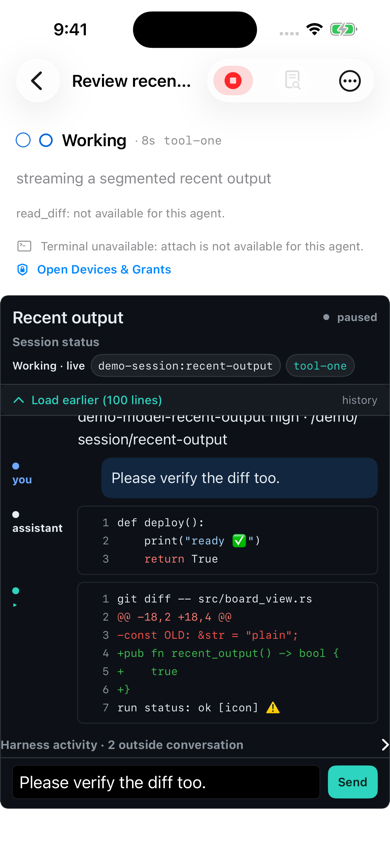
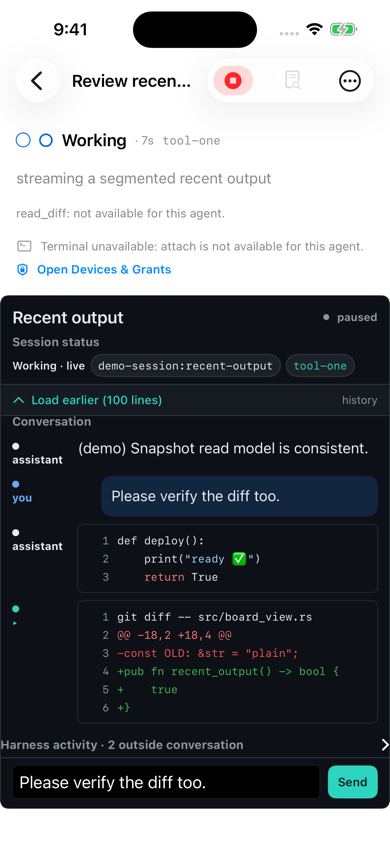
board+ios(#316): R4 omit unavailable worktree metadata; complete iOS evidence
- DemoFleet: remove the manufactured `model effort · path` metadata line
  from the demo seed entirely (every seeded agent has worktreePath == nil,
  so Model/Effort/Worktree are genuinely unavailable and are now omitted;
  the Tool chip falls back to the agent's structured tool field). Delete
  the model/effort/worktree derivation helpers and their path-like
  fallback (`/demo/session/recent-output`), which never parsed as metadata
  and rendered as clipped visible prose in the R3 capture.
- Compact the demo tool diff so the full conversation (Conversation
  heading + user bubble + assistant code + expanded diff with +/-/@@)
  fits the 320pt conversation viewport at the deterministic bottom-scroll
  position; the complete Conversation heading is now visible in-frame
  and nothing is clipped under Load earlier.
- Tests: rename testDemoRecentLines...MetadataIsPerAgent to
  ...MetadataIsOmitted and assert extraction yields empty metadata, no
  "·" separator anywhere, and the flattening contract still holds.
- Re-capture v3-context-split-ios-390x844.png from the compiled Debug app
  (-corralDemoDetail): deterministic Vision OCR shows Session status above
  the complete Conversation heading, unclipped user bubble, assistant code
  block, expanded tool diff, Harness activity · 2 outside conversation,
  composer — zero forbidden identifiers, zero metadata-line prose.
- Re-pin ios/check-release-demo.py release source digest for the R4 seed;
  self-test PASS.
[…]

diff --git a/ios/FleetNotifier/Demo/DemoFleet.swift b/ios/FleetNotifier/Demo/DemoFleet.swift
@@ -256,47 +256,20 @@ enum DemoFleet {
         }
     }
 
-    /// The demo's metadata is derived from the source tool and agent identity,
-    /// rather than copied from one shared sample. That makes each seeded agent
-    /// useful for testing badges and keeps the capture route representative.
-    /// (R3 evidence contract: derived model names stay provider-neutral.)
-    static func model(for agent: Agent) -> String {
-        let slug = agent.agentId.split(separator: ":", maxSplits: 1).last
-            .map(String.init)
-            ?? "demo"
-        let normalized = slug.replacingOccurrences(of: "_", with: "-")
-        return "demo-model-\(normalized)"
-    }
-
-    static func worktree(for agent: Agent) -> String {
-        if let worktree = agent.workspace.worktreePath, !worktree.isEmpty {
-            return worktree
-        }
-        // R3 evidence contract: the synthetic fallback path is a fixed
-        // neutral session path so demo chips never render repo-, branch-,
-        // or session-identifier-shaped strings.
-        return "/demo/session/recent-output"
-    }
-
-    static func effort(for agent: Agent) -> String {
-        switch agent.state {
-        case .blocked: return "max"
-        case .working: return "high"
-        case .done: return "medium"
-        case .idle, .unknown: return "low"
-        }
-    }
-
+    /// R4: the demo seed carries NO manufactured metadata line. All seeded
+    /// agents have `workspace.worktreePath == nil`, and the canonical
+    /// `model effort · path` contract only exists when a worktree genuinely
+    /// does — Session status therefore omits Model/Effort/Worktree and the
+    /// Tool chip falls back to the agent's structured tool field.
     static func recentBlocks(for agent: Agent) -> [RecentBlock] {
-        let metadata = "\(model(for: agent)) \(effort(for: agent)) · \(worktree(for: agent))"
-        // R3 evidence contract: the demo diff references a neutral synthetic
+        // R4 evidence contract: the demo diff references a neutral synthetic
         // file, never a repo-derived filename.
         let file = "src/board_view.rs"
         let omitted = agent.seq > 0 ? UInt32(min(agent.seq * 10, 2_000)) : nil
         return [
             RecentBlock(
                 kind: .agent,
-                text: "(demo) Snapshot read model is consistent.\n\(metadata)",
+                text: "(demo) Snapshot read model is consistent.",
                 truncatedBefore: omitted),
             RecentBlock(kind: .user,
                         text: "Please verify the diff too.",
@@ -315,9 +288,14 @@ enum DemoFleet {
             RecentBlock(kind: .unknown,
                         text: "raw pane line without provenance",
                         truncatedBefore: nil),
+            // R4 evidence contract: the demo diff is compact enough that the
+            // whole conversation (heading + user + assistant + expanded diff)
+            // fits the 320pt conversation viewport, so the deterministic
+            // bottom-scroll position shows the complete Conversation heading
+            // unclipped. It still exercises +/-/@@ gutter rendering.
             RecentBlock(
                 kind: .tool,
-                text: "git diff -- \(file)\n@@ -18,2 +18,4 @@\n-const OLD: &str = \"plain\";\n+pub fn recent_output() -> bool {\n+    true\n+}\nrun status: ok [icon] ⚠",
+                text: "git diff -- \(file)\n@@ -18,2 +18,4 @@\n-const OLD: &str = \"plain\";\n+pub fn recent_output() -> bool {\n+    true\n+}",
                 truncatedBefore: nil)
         ]
     }

diff --git a/ios/FleetNotifierTests/FleetNotifierTests.swift b/ios/FleetNotifierTests/FleetNotifierTests.swift
@@ -4243,10 +4243,9 @@ final class RecentOutputModelTests: XCTestCase {
         XCTAssertEqual(DemoFleet.featuredAgentID, "demo-session:recent-output")
     }
 
-    func testDemoRecentLinesAreDerivedFromTheSameBlocksAndMetadataIsPerAgent() throws {
+    func testDemoRecentLinesAreDerivedFromTheSameBlocksAndMetadataIsOmitted() throws {
         let agents = DemoFleet.seed()
         let first = try XCTUnwrap(agents[DemoFleet.featuredAgentID])
-        let second = try XCTUnwrap(agents["herdr:demo-working"])
         let response = DemoFleet.respond(to: .readTail, payload: .null, agent: first, rev: 1)
         guard case .dispatched(let dispatched) = response,
               let result = dispatched.result,
@@ -4257,12 +4256,17 @@ final class RecentOutputModelTests: XCTestCase {
         XCTAssertEqual(storedLines,
                        storedBlocks.flatMap { $0.text.components(separatedBy: .newlines) },
                        "stored legacy lines must be the exact flattening of stored semantic blocks")
-        XCTAssertNotEqual(DemoFleet.model(for: first), DemoFleet.model(for: second))
-        // R3: the demo seed deliberately does NOT invent per-agent worktree
-        // paths (Omit unavailable fields rather than manufacturing them);
-        // the fallback is a single neutral session path.
-        XCTAssertEqual(DemoFleet.worktree(for: first), "/demo/session/recent-output")
-        XCTAssertEqual(DemoFleet.worktree(for: second), "/demo/session/recent-output")
+        // R4: the demo seed carries NO manufactured `model effort · path`
+        // metadata (every seeded agent has worktreePath == nil), so Session
+        // status omits Model/Effort/Worktree and the Tool chip falls back to
+        // the agent's structured tool field. Unavailable fields are omitted,
+        // never replaced with a path-like fallback.
+        XCTAssertEqual(RecentOutputMetadata.extract(from: storedBlocks),
+                       RecentOutputMetadata(),
+                       "demo blocks must not fabricate model/effort/worktree metadata")
+        XCTAssertTrue(storedBlocks.allSatisfy {
+            !$0.text.contains("·")
+        }, "demo blocks must not contain any metadata-separator line")
         XCTAssertTrue(DemoFleet.monotoneOutput(for: first).contains("Please verify the diff too."))
     }
 #endif

diff --git a/ios/check-release-demo.py b/ios/check-release-demo.py
@@ -66,7 +66,11 @@ APPROVED_RELEASE_SOURCE_DIGEST = (
     # FleetViews, and the demo seed; the pin follows the new source set.
     # #316 R3: demo seed neutralized (featured session id, tool names, repos,
     # worktree fallback, titles) — digest re-pinned to the R3 source set.
[1 lines of base64/hex data omitted]
+    # #316 R4: demo seed omits unavailable worktree metadata entirely (no
+    # manufactured `model effort · path` line, no path-like fallback) and the
+    # demo diff is compacted so the Conversation heading stays in viewport —
+    # digest re-pinned to the R4 source set.
[1 lines of base64/hex data omitted]
 )
 RELEASE_SOURCE_DIGEST_MARKER = source_digest_marker(APPROVED_RELEASE_SOURCE_DIGEST)
 RELEASE_BUILD_INPUTS = tuple(

diff --git a/docs/design/evidence/issue-316/implementation/README.md b/docs/design/evidence/issue-316/implementation/README.md
@@ -25,12 +25,18 @@ evidence.
   `sips -z 844 390`.
 - Shows the full V3 stacked order: **Session status** (structured values:
   `Working · live`, session `demo-session:recent-output`, tool `tool-one`;
-  Worktree omitted because the demo session has no worktree — Omit
-  unavailable values rather than inventing), **Conversation** (user bubble
-  "Please verify the diff too.", assistant code block, expanded tool diff
-  with literal +/-/@@ and gutter numbers), collapsible **Harness activity ·
-  2 outside conversation**, and the pinned composer (Reply to agent… / Send)
-  at the bottom.
+  Model/Effort/Worktree omitted — the demo seed carries NO manufactured
+  `model effort · path` metadata, so unavailable structured fields are
+  omitted rather than invented), **Conversation** (complete visible heading;
+  user bubble "Please verify the diff too."; assistant code block; expanded
+  tool diff with literal +/-/@@ and gutter numbers), collapsible
+  **Harness activity · 2 outside conversation**, and the pinned composer
+  (Reply to agent… / Send) at the bottom.
+- R4: the demo diff is compact enough that the full conversation (heading +
+  user + assistant + expanded diff) fits the 320pt conversation viewport at
+  the deterministic bottom-scroll position, so the complete `Conversation`
+  heading is visible and nothing is clipped under Load earlier. No
+  path-like fallback or metadata line exists anywhere in the seed.
 
 ## egui — `v3-context-split-egui-1320x860.png` (1320x860)
 
@@ -83,7 +89,7 @@ rejects every identity mutation and live title.
 
 ```
 8734db6fca21eb159d864560b95abfc546a4c1f5c15a9bcf31ed61a3e7b1448a  v3-context-split-egui-1320x860.png
-fec586acc2db831e8df051485487e79b2e699de723b82db959be93afba31cab9  v3-context-split-ios-390x844.png
+98cbcce925fbce1d9fe47247f59502b6fe9bf1066a273e6efb204ff07ec408d5  v3-context-split-ios-390x844.png
 ```
 
 ## Self-review vs pinned V3 references
